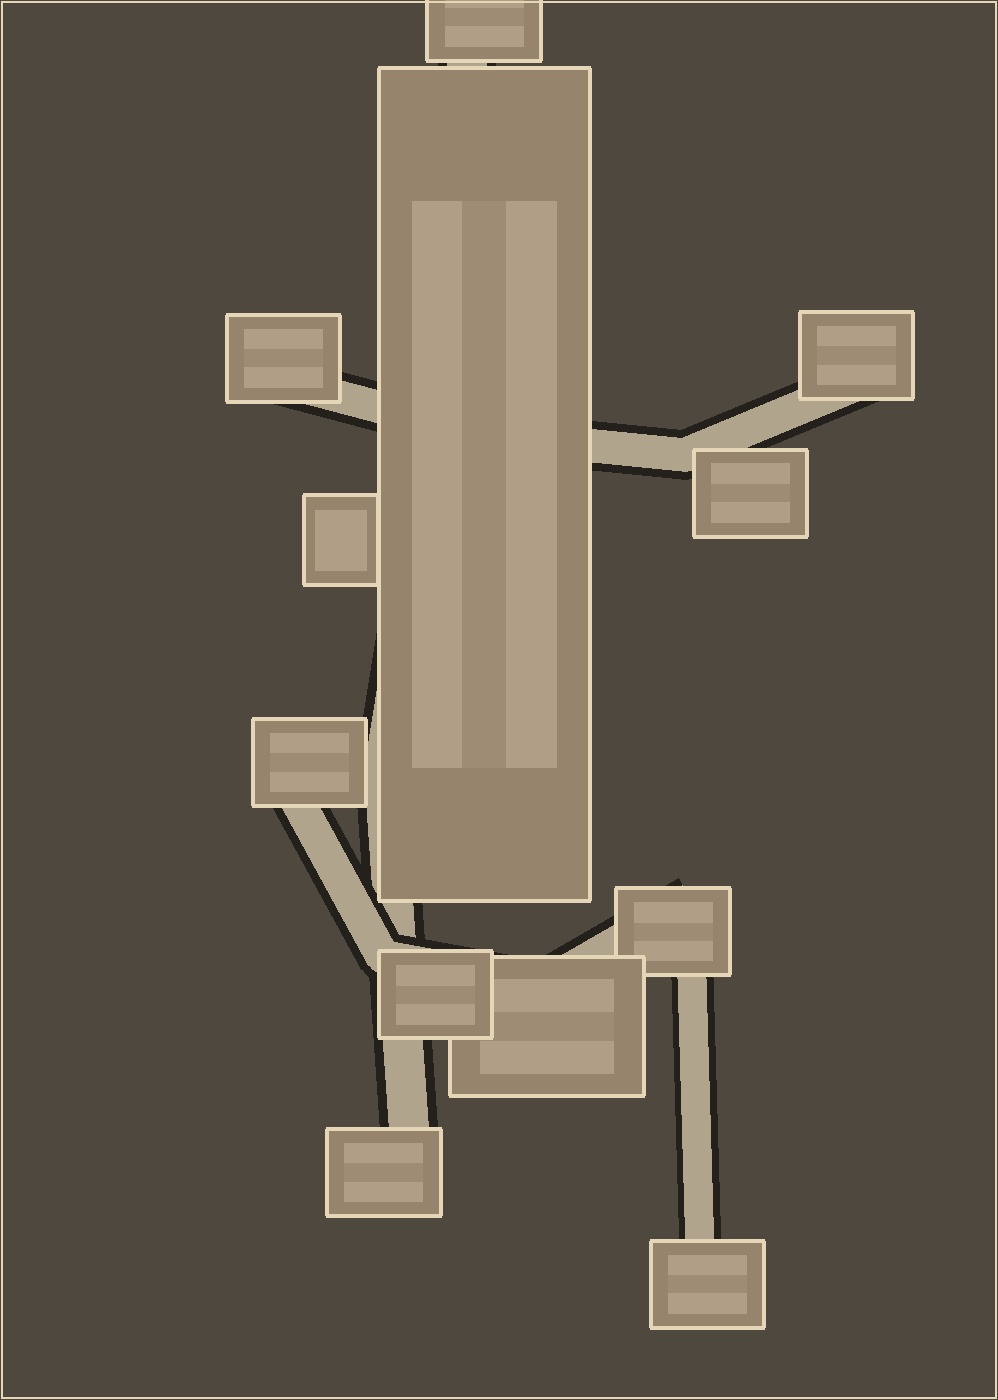
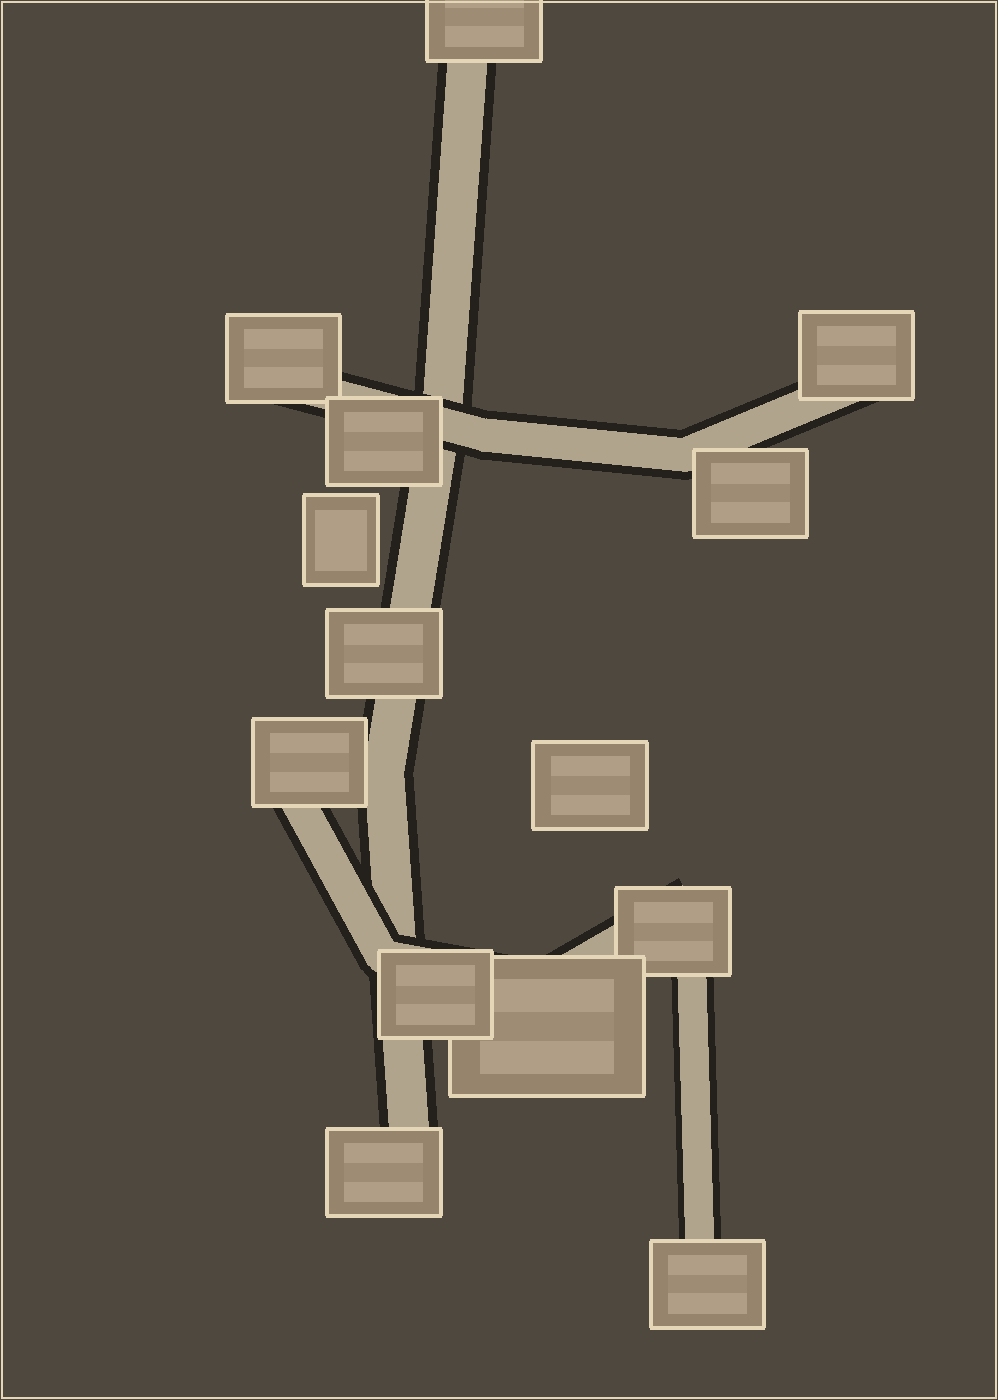
Place Customs buildings from the real layout, not one yard rectangle.
The dorms are two north-south blocks: the three-story building to the east and the two-story building to the west. Oversized floor zones are no longer drawn as single buildings.

Changed region(s): [[0.3106, 0.0307, 0.6523, 0.645]]

diff --git a/TarkovOverlay/Maps/render_underlays.py b/TarkovOverlay/Maps/render_underlays.py
@@ -468,8 +468,12 @@ def render(spec: dict, path: Path) -> tuple[int, int]:
         except OSError:
             pass
 
+    def is_zone(area: dict) -> bool:
+        return max(abs(area["x1"] - area["x0"]), abs(area["z1"] - area["z0"])) > 55
+
     for area in spec["areas"]:
-        if str(area["name"]).lower() == "dorms":
+        # Floor zones (the dorms yard, the skeleton complex) are not one building.
+        if str(area["name"]).lower() == "dorms" or is_zone(area):
             continue
         if str(area["name"]).lower() == "mall":
             plate = lighten(palette[0], 18)
@@ -490,15 +494,24 @@ def render(spec: dict, path: Path) -> tuple[int, int]:
             return 12, 9
         if spec["id"] == "interchange":
             return 16, 12
-        if any(word in lowered for word in ("dorm", "sawmill", "resort", "plant", "chalet", "depot", "warehouse", "bunker", "hotel", "construction", "knight", "bishop", "pawn", "king")):
+        if spec["id"] == "customs":
+            # half-width along X, half-depth along Z. Dorms are drawn separately, long axis north–south.
+            if any(word in lowered for word in ("crack", "fortress", "17")):
+                return 8, 16
+            if any(word in lowered for word in ("skeleton", "warehouse", "depot", "gas", "checkpoint", "storage", "trailer", "construction", "pump", "streamer")):
+                return 16, 8
+            return 10, 8
+        if any(word in lowered for word in ("sawmill", "resort", "plant", "chalet", "depot", "warehouse", "bunker", "hotel", "construction", "knight", "bishop", "pawn", "king")):
             return 34, 24
         if any(word in lowered for word in ("shack", "tent", "tree", "rock", "nest")):
             return 12, 10
         return 20, 15
 
-    blocking = [area for area in spec["areas"] if str(area["name"]).lower() != "mall"]
+    blocking = [area for area in spec["areas"] if str(area["name"]).lower() != "mall" and not is_zone(area)]
     for label in spec["labels"]:
         if any(token in label["text"] for token in ("St.", "Ave", "Alley")):
+            continue
+        if "dorm" in label["text"].lower():
             continue
         if inside_area(label["x"], label["z"], blocking):
             continue
